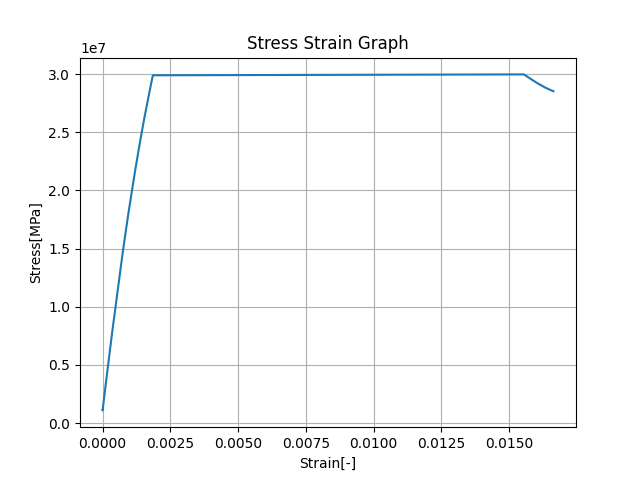
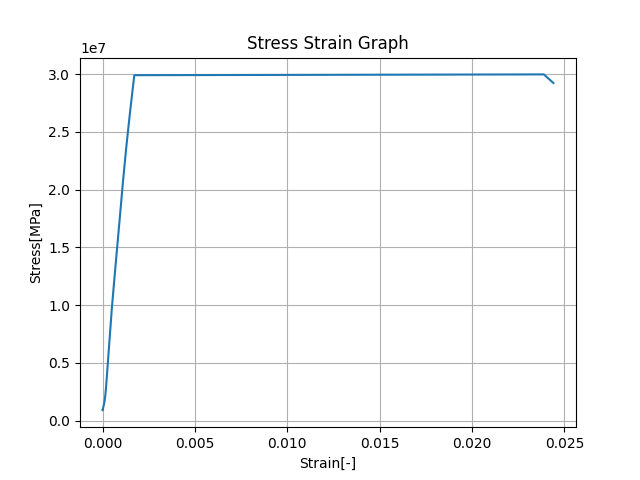
Minor Updates

diff --git a/mainV2.py b/mainV2.py
@@ -20,7 +20,7 @@ for i in range(len(cdeformation)):
 Compliance_funct = interpolate.interp1d(ncforce, ncdeformation, kind='linear', fill_value='extrapolate')
 
 #FILE COMMANDS
-file = 'bm-s3'
+file = 'bm-s4'
 file2 = 'Data\Compressive\\' + file + '.csv'
 
 #NORMALIZING THE DATA WITH COMPLIANCE
@@ -35,14 +35,14 @@ deformation, force, travel, sg1, ttime = read_csv_file(file2)
 
 for j in range(len(deformation)):
   strain.append((deformation[j]-Compliance_funct(force[j]))/(original_l*1000))
-  stress.append(force[j]/A)
+  stress.append(force[j]/(A))
   #stress.append((force[j]/A))
 mstrain = min(strain)
 mstrain = abs(mstrain)
 for k in range(len(strain)):
   strain[k] = strain[k]+mstrain
 
-#bplot_graph(strain, stress, file)
+bplot_graph(strain, stress, file)
 
 #print('First value of strain list')
 #print(strain[1])
@@ -133,7 +133,7 @@ def calculate_toughness(strain, stress):
 #  if stress[i]>3*10**7:
 #    print((stress[i]/strain[i])/10**9)
 #    break
-test_stiff(strain,stress)
+#test_stiff(strain,stress)
 #stiffness_calc(strain, stress)
 #TESTING DEFINITIONS
 #tensile_ultimate = calculate_ult_tens(stress)

diff --git a/MakeGraphFromLists.py b/MakeGraphFromLists.py
@@ -27,10 +27,10 @@ def bplot_graph(list1, list2, name):
         return
 
     # Create the graph
-    plt.plot(list1, list2,'o')
+    plt.plot(list1, list2)
     plt.xlabel('Strain[-]')
-    plt.ylabel('Stress[MPa]')
-    plt.title('Stress Strain Graph')
+    plt.ylabel('Stress[Pa]')
+    plt.title('Stress Strain Graph '+(name))
     plt.grid(True)
     
     plt.savefig(name+'.png')
